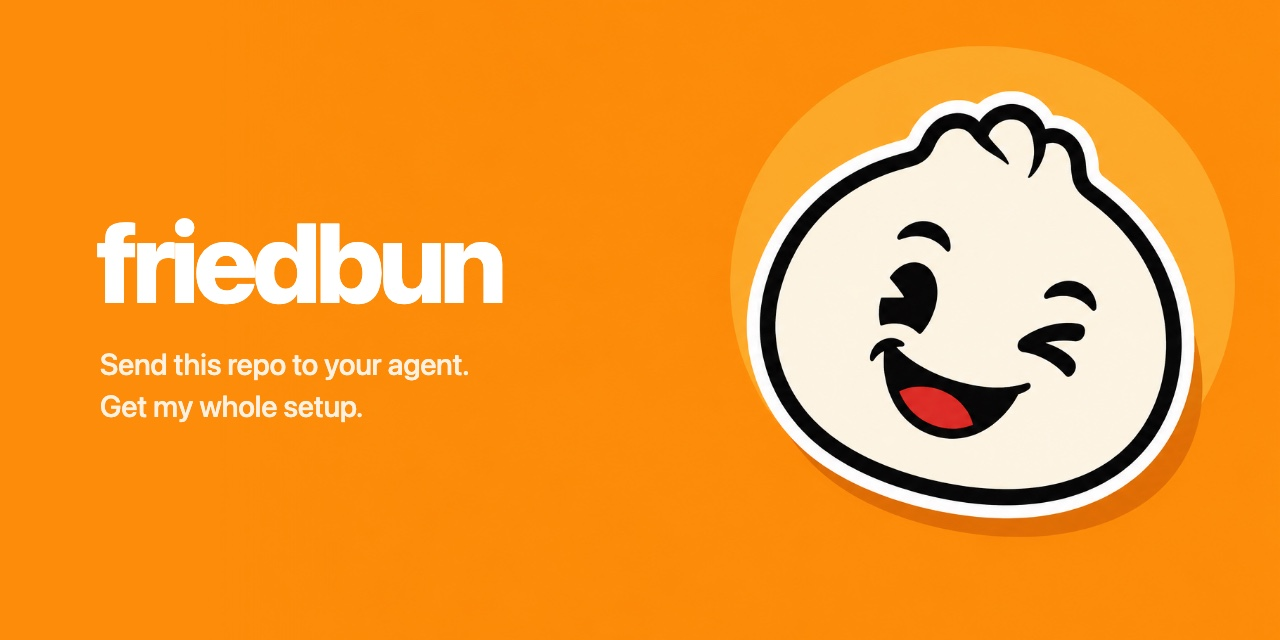
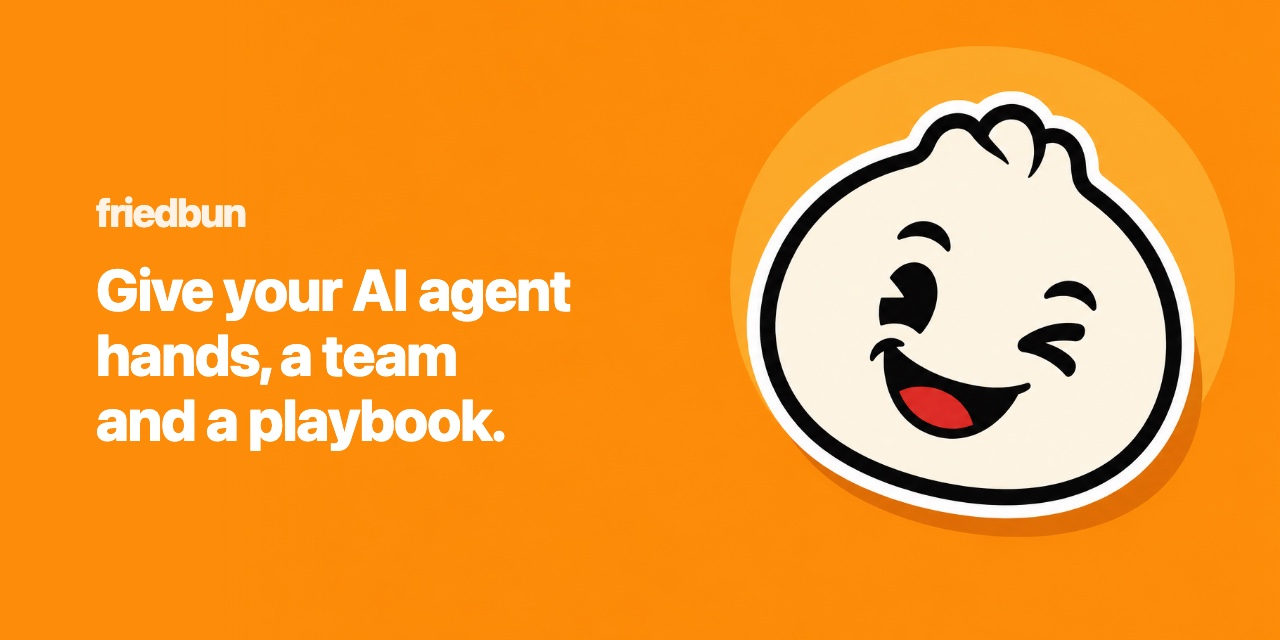
README 改版：卖点头图（橙底，中英各一张）、按 skills / FireCode / bcu 三段讲好处，细节收进折叠；bcu 动图重录为真实应用一镜到底；删除旧头图

Changed region(s): [[0.0625, 0.3125, 0.4688, 0.7188]]

diff --git a/README.md b/README.md
@@ -1,78 +1,49 @@
-<p align="center">
-  <picture>
-    <source media="(prefers-color-scheme: dark)" srcset="assets/hero-en-dark.jpg">
-    <img alt="friedbun — send this repo to your agent, get my whole setup" src="assets/hero-en-light.jpg" width="100%">
-  </picture>
-</p>
+<p align="center"><img alt="friedbun — give your AI agent hands, a team and a playbook" src="assets/hero-en.jpg" width="100%"></p>
 
 <p align="center"><b>English</b> · <a href="README.zh-CN.md">中文</a></p>
 
-My whole coding-agent workstation — 25 agent skills, the config files I actually run, and the tools behind them — packaged so your agent can install it on your Mac.
+Skills, a multi-agent team and desktop control for your coding agent, set up from one link.
 
-**Just the skills:**
+**Just the skills**
 
 ```bash
 npx skills add Suge8/friedbun
 ```
 
-**The whole workstation** — paste this to your coding agent:
+**Everything** — paste this to your coding agent:
 
 ```text
 Clone https://github.com/Suge8/friedbun and set up this Mac by following its SETUP.md.
 ```
 
-Your agent installs everything, merges into the configs you already have (any file it changes gets a `.bak` copy first), and stops only for the steps that need you: logging in, granting macOS permissions, pasting an API key.
+## A playbook: 25 skills
 
-## What's inside
+<p align="center"><img alt="The 25 skills in six groups" src="assets/skills.jpg" width="100%"></p>
 
-### Skills
+Your agent picks up how I work: research from primary sources, write the failing test before the code, check UI against a taste guide, make images and demo GIFs like the ones on this page. Many of them kick in on their own when the task fits.
 
-25 skills in six groups under [`skills/`](skills). Eleven are manual and run only when called by name; the rest trigger on their own from their descriptions.
+## A team: FireCode
 
-| Group | Skills |
-| --- | --- |
-| `workflow` | `research` · `grilling` · `implement` · `retro` — from alignment to delivery; forked from [mattpocock/skills](https://github.com/mattpocock/skills) |
-| `development` | `better-test` · `prototype` · `architecture-audit` · `fan-out` · `writing-for-agents` · `pr` · `ship` · `project-setup` · `eli5` |
-| `frontend` | `ui-craft` · `ui-picks` |
-| `creative` | `gpt-image` · `promo` · `copywriting` · `post` · `video` |
-| `operations` | `better-computer-use` · `better-browser-use` · `herdr` · `ssh` |
-| `web-search` | `web-search` — Anthropic and OpenAI search with your Pi logins, TinyFish for fast results and page text |
+<p align="center"><img alt="FireCode dispatching three sub-agents in parallel" src="https://raw.githubusercontent.com/Suge8/firecode/main/design/promo/hero.gif" width="100%"></p>
 
-A few worth opening first: `implement` writes the acceptance test, watches it fail, then builds the whole slice. `better-test` decides which tests deserve to exist. `ui-craft` is the taste guide the agent reads before touching any UI. Every image on this page came out of `promo` and `gpt-image`.
+One agent becomes a commander that hands work to sub-agents running in parallel, each on its own model. Several models review your change in parallel, and anything they fail goes straight back to be fixed. [FireCode on GitHub →](https://github.com/Suge8/firecode)
 
-### Config
+## Hands: bcu
 
-[`config/`](config) holds the real files from my machine, not templates:
+<p align="center"><img alt="The bcu agent cursor scrolls a menu, picks an item, fills in a form and places an order in a Mac app" src="assets/bcu-demo.gif" width="100%"></p>
 
-- **Pi** — settings, keybindings, models, the FireCode role table, and `SYSTEM.md`, my system prompt. It swaps your agent's tone and working habits for mine, so SETUP.md has your agent flag it first and you can skip it.
-- **Terminal** — Ghostty with a cursor shader, Herdr, Starship, fastfetch and a zsh snippet. Everything follows the system appearance: Catppuccin Mocha in dark mode, Latte in light.
+Your agent clicks, types and scrolls through Mac apps by itself, so it can finish tasks in apps that have no API. It works in the background whenever the app allows, so your own mouse and keyboard stay yours. [bcu on GitHub →](https://github.com/Suge8/better-computer-use)
 
-### Tools
+<details>
+<summary><b>Everything the setup installs</b></summary>
 
-[Pi](https://pi.dev) as the coding agent, with FireCode on top · [Herdr](https://herdr.dev) terminal multiplexer · [Ghostty](https://ghostty.org) + [Starship](https://starship.rs) + zsh · bcu for the desktop · [agent-browser](https://github.com/vercel-labs/agent-browser) and [CloakBrowser](https://cloakbrowser.dev) for the web, always in an isolated browser, never your everyday one.
+- **Coding agent**: [Pi](https://pi.dev) with FireCode, my settings, keybindings and model roles, plus `SYSTEM.md`, my system prompt. The prompt swaps in my tone and working habits, so your agent flags it first and you can skip it.
+- **Terminal**: [Herdr](https://herdr.dev) multiplexer, [Ghostty](https://ghostty.org), [Starship](https://starship.rs), fastfetch and a zsh snippet, all following the system light/dark theme.
+- **Desktop and web**: bcu, plus [agent-browser](https://github.com/vercel-labs/agent-browser) and [CloakBrowser](https://cloakbrowser.dev) in an isolated browser that never drives your everyday one.
+- **Skills**: [`skills/`](skills), linked to `~/.agents/skills`. `workflow` is forked from [mattpocock/skills](https://github.com/mattpocock/skills).
 
-## Two tools I built for it
+Existing config files are backed up as `.bak` before anything changes. The agent stops for the steps only you can do: logging in, granting macOS permissions, pasting an API key. [SETUP.md](SETUP.md) lists every file it touches.
 
-**[bcu](https://github.com/Suge8/better-computer-use)** lets an agent see and operate any macOS app from the shell. It reads a window as a tree of actionable elements and acts in the background first, taking the foreground only when an app insists on it.
+</details>
 
-```bash
-brew install --cask suge8/tap/bcu
-```
-
-<p align="center"><img alt="bcu fills in and ticks a test app while its window stays in the background" src="assets/bcu-demo.gif" width="100%"></p>
-
-**[FireCode](https://github.com/Suge8/firecode)** adds multi-agent orchestration and adversarial code review to Pi: a commander hands work to sub-agents, each role with its own model, and several models review each change in parallel, sending every FAIL straight back to the agent to fix.
-
-```bash
-pi install npm:pi-firecode
-```
-
-## Requirements
-
-Apple Silicon Mac, macOS 14 or later. SETUP.md also needs Homebrew and Node 22.13+.
-
-## License
-
-[MIT](LICENSE). This is a personal setup shared as is: no promise of compatibility with future versions. SETUP.md ends with a list of everything it installs and every file it touches, so you can undo it by hand.
-
-Made by Fried Bun · [@Suge_dif](https://x.com/Suge_dif)
+Requires an Apple Silicon Mac on macOS 14+ (the full setup also needs Homebrew and Node 22.13+). [MIT](LICENSE) · made by Fried Bun · [@Suge_dif](https://x.com/Suge_dif)

diff --git a/README.zh-CN.md b/README.zh-CN.md
@@ -1,78 +1,49 @@
-<p align="center">
-  <picture>
-    <source media="(prefers-color-scheme: dark)" srcset="assets/hero-zh-dark.jpg">
-    <img alt="friedbun：把这个仓库发给你的 agent，拿走我的整套配置" src="assets/hero-zh-light.jpg" width="100%">
-  </picture>
-</p>
+<p align="center"><img alt="friedbun：给你的 AI agent 一双手、一支团队和一身本事" src="assets/hero-zh.jpg" width="100%"></p>
 
 <p align="center"><a href="README.md">English</a> · <b>中文</b></p>
 
-我的整套 coding agent 工作站：25 个 agent skill、我机器上真实在用的配置文件、背后的工具，打包成你的 agent 能直接装到你 Mac 上的样子。
+给 coding agent 装上 skills、多代理团队和桌面操控，一个链接装好。
 
-**只要 skills：**
+**只要 skills**
 
 ```bash
 npx skills add Suge8/friedbun
 ```
 
-**整套工作站**：把这句话发给你的 coding agent：
+**整套配置**：把这句话发给你的 coding agent：
 
 ```text
 克隆 https://github.com/Suge8/friedbun，按其中的 SETUP.md 把这台 Mac 配好。
 ```
 
-agent 会装好所有东西，把配置并入你已有的文件（改动前先留一份 `.bak`），只在必须你本人动手的地方停下：登录、给 macOS 授权、填 API key。
+## 一身本事：25 个 skill
 
-## 里面有什么
+<p align="center"><img alt="六组共 25 个 skill" src="assets/skills.jpg" width="100%"></p>
 
-### Skills
+agent 学会我的干活方式：查一手资料、先写会失败的测试再写代码、按品味指南检查界面、做出这页上这样的图和演示动图。很多 skill 遇到合适的任务会自己启用。
 
-[`skills/`](skills) 下 25 个 skill，分六组。其中 11 个是手动 skill，点名才用；其余按描述自动触发。
+## 一支团队：FireCode
 
-| 分组 | Skills |
-| --- | --- |
-| `workflow` | `research` · `grilling` · `implement` · `retro`：从对齐到交付按顺序用；分叉自 [mattpocock/skills](https://github.com/mattpocock/skills) |
-| `development` | `better-test` · `prototype` · `architecture-audit` · `fan-out` · `writing-for-agents` · `pr` · `ship` · `project-setup` · `eli5` |
-| `frontend` | `ui-craft` · `ui-picks` |
-| `creative` | `gpt-image` · `promo` · `copywriting` · `post` · `video` |
-| `operations` | `better-computer-use` · `better-browser-use` · `herdr` · `ssh` |
-| `web-search` | `web-search`：用你在 Pi 里的登录走 Anthropic、OpenAI 官方搜索，TinyFish 出快速结果和网页正文 |
+<p align="center"><img alt="FireCode 并行派出三个子代理" src="https://raw.githubusercontent.com/Suge8/firecode/main/design/promo/hero.zh.gif" width="100%"></p>
 
-建议先看这几个：`implement` 先写验收测试、看它失败，再实现整个切片；`better-test` 判断哪些测试值得存在；`ui-craft` 是 agent 动任何界面前要读的品味指南；这页上的图都出自 `promo` 和 `gpt-image`。
+一个 agent 变成指挥官，把任务派给并行干活的子代理，每个子代理用自己的模型。多个模型并行审查你的改动，没通过的地方直接退回去修。[FireCode 仓库 →](https://github.com/Suge8/firecode)
 
-### 配置
+## 一双手：bcu
 
-[`config/`](config) 是我机器上真实在用的文件，不是模板：
+<p align="center"><img alt="bcu 的 agent 光标在 Mac 应用里滚动菜单、选中商品、填表并下单" src="assets/bcu-demo.gif" width="100%"></p>
 
-- **Pi**：settings、快捷键、模型、FireCode 角色表，以及我的系统提示词 `SYSTEM.md`。它会把你 agent 的语气和工作习惯换成我的，所以 SETUP.md 让 agent 先提醒你，你可以跳过。
-- **终端**：Ghostty（带光标 shader）、Herdr、Starship、fastfetch 和一段 zsh 配置。全部跟随系统明暗：深色 Catppuccin Mocha，浅色 Latte。
+agent 自己在 Mac 应用里点击、输入、滚动，没有 API 的应用也能把活干完。应用允许时它在后台操作，你的鼠标键盘照常归你用。[bcu 仓库 →](https://github.com/Suge8/better-computer-use)
 
-### 工具
+<details>
+<summary><b>整套配置会装什么</b></summary>
 
-[Pi](https://pi.dev) 做 coding agent，上面跑 FireCode · [Herdr](https://herdr.dev) 终端复用 · [Ghostty](https://ghostty.org) + [Starship](https://starship.rs) + zsh · bcu 操控桌面 · [agent-browser](https://github.com/vercel-labs/agent-browser) 和 [CloakBrowser](https://cloakbrowser.dev) 操作网页，只用隔离浏览器，不碰你日常用的那个。
+- **Coding agent**：[Pi](https://pi.dev) 加 FireCode，我的设置、快捷键和模型角色，以及我的系统提示词 `SYSTEM.md`。它会把语气和工作习惯换成我的，agent 会先提醒你，不想要可以跳过。
+- **终端**：[Herdr](https://herdr.dev) 终端复用、[Ghostty](https://ghostty.org)、[Starship](https://starship.rs)、fastfetch 和一段 zsh 配置，全部跟随系统明暗。
+- **桌面与网页**：bcu，以及 [agent-browser](https://github.com/vercel-labs/agent-browser) 和 [CloakBrowser](https://cloakbrowser.dev)，只在隔离浏览器里操作，不碰你日常用的浏览器。
+- **Skills**：[`skills/`](skills)，链接到 `~/.agents/skills`。`workflow` 分叉自 [mattpocock/skills](https://github.com/mattpocock/skills)。
 
-## 为它写的两个工具
+改动已有配置前先留一份 `.bak`。登录、给 macOS 授权、填 API key 这几步只能你本人做，agent 会停下等你。[SETUP.md](SETUP.md) 列出了它改动的每个文件。
 
-**[bcu](https://github.com/Suge8/better-computer-use)** 让 agent 在命令行里看见并操作任何 macOS 应用。它把窗口读成一棵可操作的元素树，优先在后台完成动作，只有应用非要前台才切过去。
+</details>
 
-```bash
-brew install --cask suge8/tap/bcu
-```
-
-<p align="center"><img alt="bcu 在后台填写并勾选一个测试应用，窗口始终没有被激活" src="assets/bcu-demo.gif" width="100%"></p>
-
-**[FireCode](https://github.com/Suge8/firecode)** 给 Pi 加上多代理编排和对抗式代码审查：指挥官把任务派给子代理，每个角色用自己的模型；多个模型并行审查每次改动，每条 FAIL 直接退回给 agent 修。
-
-```bash
-pi install npm:pi-firecode
-```
-
-## 运行前提
-
-Apple Silicon Mac，macOS 14 及以上。按 SETUP.md 配置还需要 Homebrew 和 Node 22.13+。
-
-## License
-
-[MIT](LICENSE)。这是个人配置，按原样分享，不承诺兼容以后的版本。SETUP.md 末尾列出了装的每样东西和改的每个文件，可以照着手动还原。
-
-作者 Fried Bun · [@Suge_dif](https://x.com/Suge_dif)
+需要 Apple Silicon Mac、macOS 14 及以上（整套配置还需要 Homebrew 和 Node 22.13+）。[MIT](LICENSE) · 作者 Fried Bun · [@Suge_dif](https://x.com/Suge_dif)
